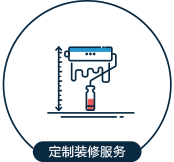
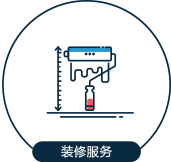
我的认筹详情 我的定制详情

diff --git a/css/about.css b/css/about.css
@@ -1,1 +1,1 @@
-.main-width{width:1200px;min-width:1200px;margin-left:auto;margin-right:auto}.ellipse{overflow:hidden;white-space:nowrap;text-overflow:ellipsis}input,button{font-size:14px}button{cursor:pointer}.select{width:100%;height:45px;position:relative;font-size:14px}.select .form-control{width:100%;height:45px;line-height:45px;border-radius:3px;-webkit-border-radius:3px;-moz-border-radius:3px;color:#7f85a3;padding:0 40px 0 12px;box-shadow:inset 0 1px 3px 0 rgba(127,133,163,0.53);-webkit-box-shadow:inset 0 1px 3px 0 rgba(127,133,163,0.53);-moz-box-shadow:inset 0 1px 3px 0 rgba(127,133,163,0.53);background:#eff2f9;background:url("../images/icon/select_ico.png") right 20px center no-repeat,-webkit-gradient(linear, left top, left bottom, from(#eff2f9), to(#dbe0ed));background:url("../images/icon/select_ico.png") right 20px center no-repeat,linear-gradient(to bottom, #eff2f9, #dbe0ed)}.select .select-box{position:relative;width:100%}.select .select-box ul{background:#fff;display:none;border-bottom:1px solid #c3c9d8}.select .select-box ul li{width:100%;height:auto;line-height:20px;border-top:1px solid #c3c9d8;color:#7f85a3;padding:10px 12px;cursor:pointer}.select .select-box ul li:hover{background:#eff2f9;color:#7f85a3;border-top-color:#c3c9d8}.select .select-box:hover ul{display:block}.about{width:100%;height:auto;min-width:1200px;overflow:hidden;border-top:6px solid #fff}.about .content{width:1200px;min-width:1200px;margin-left:auto;margin-right:auto}.message{color:#fff}.message .title{font-size:40px;margin-top:20px}.message .tit{font-size:15px;letter-spacing:10px;margin-top:20px}.message .con{line-height:24px;margin-top:20px}.message .link{display:block;margin-top:36px}.about-introduce{width:100%;height:896px;background:url("../images/about/bg1.jpg") top center no-repeat;background-size:auto 896px}.about-introduce .logo{margin-top:85px;display:block}.about-introduce .text{margin-top:38px;width:548px;height:auto;color:#565f65}.about-introduce .en{margin-top:30px;color:#95a4ae}.about-introduce .menu{width:1250px;height:208px;margin-top:156px;background:url("../images/about/menu_bgpng.png") left 259px center no-repeat}.about-introduce .menu .item{display:block;border-radius:50%;-webkit-border-radius:50%;-moz-border-radius:50%;width:208px;height:208px;line-height:208px;text-align:center;transition:All .5s ease-in-out;-webkit-transition:All .5s ease-in-out;-moz-transition:All .5s ease-in-out;-o-transition:All .5s ease-in-out;float:left;margin-right:101px}.about-introduce .menu .item:hover{background:#d8e1ef;box-shadow:3px 8px 40px #7f85a3;-moz-box-shadow:3px 8px 40px #7f85a3;-webkit-box-shadow:3px 8px 40px #7f85a3}.about-property{width:100%;height:927px;min-width:1200px;background:url("../images/about/bg3.jpg") top center no-repeat;background-size:auto 927px;overflow:hidden}.about-property .message{width:640px;height:auto}.about-property .message .title{margin-top:418px;padding-left:110px}.about-property .message .tit{padding-left:110px}.about-property .message .en{margin-top:25px}.about-property .message .con{padding-left:110px;margin-top:39px}.about-case{background:#e5e5e5;background-size:auto 900px}.about-case .p1{margin-top:45px}.about-case .case-swiper{position:relative;margin-top:30px;margin-bottom:100px;overflow:hidden}.about-case .case-swiper .swiper-slide{height:540px;margin-bottom:100px}.about-case .case-swiper .con{float:right;width:380px;height:auto}.about-case .case-swiper .con .p1{margin-top:230px;font-size:35px;color:#5e5e5d}.about-case .case-swiper .content-msg{margin-top:30px}.about-case .case-swiper .content-msg .p{font-size:14px;margin-top:15px;color:#5e5e5d}.about-case .case-swiper .content-msg .p span{display:inline-block;width:64px;color:#a4a4a3;margin-right:10px}.about-case .case-swiper .data{position:absolute}.about-case .case-pagination{position:absolute;bottom:0;z-index:10}.about-case .case-pagination .item{width:65px;height:68px;cursor:pointer;text-align:center;float:left;margin-right:163px}.about-case .case-pagination .item:hover .dot,.about-case .case-pagination .item.active .dot{width:34px;height:34px;line-height:22px;border:6px solid #fac3cf;margin-top:0;font-size:12px}.about-case .case-pagination .item:hover .txt,.about-case .case-pagination .item.active .txt{display:block}.about-case .case-pagination .dot{display:inline-block;width:7px;height:7px;border-radius:50%;-webkit-border-radius:50%;-moz-border-radius:50%;background:#fd2e5a;text-align:center;font-size:0;color:#fff;margin-top:14px;overflow:hidden;transition:All .3s ease-in-out;-webkit-transition:All .3s ease-in-out;-moz-transition:All .3s ease-in-out;-o-transition:All .3s ease-in-out}.about-case .case-pagination .txt{margin-top:10px;color:#8c8c8c;display:none}.about-case .case-pagination .item-line{width:688px;height:19px;border-bottom:1px solid #c3c9d8;margin-left:30px}.about-service{width:100%;height:896px;min-width:1200px;position:relative;border-top:0}.about-service .message{border-top:6px solid #fff;width:50%;height:100%;background:#22272a url("../images/about/bg2.jpg") top right no-repeat;background-size:auto 896px}.about-service .en{margin-top:150px;text-align:center}.about-service .en img{max-width:100%}.about-service .title{margin-top:40px}.about-service .box{width:60%;margin:0 auto}.about-service .close{position:absolute;right:50px;top:50px;cursor:pointer;filter:alpha(opacity=0);-ms-filter:"progid:DXImageTransform.Microsoft.Alpha(Opacity=0)";opacity:0;transition:All .4s ease-in-out;-webkit-transition:All .4s ease-in-out;-moz-transition:All .4s ease-in-out;-o-transition:All .4s ease-in-out;z-index:20}.about-service .close:hover{transform:rotate(180deg);-webkit-transform:rotate(180deg);-moz-transform:rotate(180deg);-o-transform:rotate(180deg);filter:progid:DXImageTransform.Microsoft.BasicImage(rotation=3)}.about-service .close.show{filter:alpha(opacity=100);-ms-filter:"progid:DXImageTransform.Microsoft.Alpha(Opacity=100)";opacity:1}.about-service .img-list{width:50%;height:896px;float:right;overflow:hidden;border:6px solid #fff;border-bottom:0;border-right:0;position:relative;background:#22272a}.about-service .img-list ul{transition:All .5s ease-in-out;-webkit-transition:All .5s ease-in-out;-moz-transition:All .5s ease-in-out;-o-transition:All .5s ease-in-out;-webkit-transform-origin:0 0 0;transform-origin:0 0 0;position:relative;z-index:10}.about-service .img-list .item{width:33.33333333%;height:451px;line-height:445px;border-right:6px solid #fff;border-bottom:6px solid #fff;float:left;overflow:hidden;cursor:pointer}.about-service .img-list .item:hover .img-box{-webkit-transform:scale(1.1);transform:scale(1.1)}.about-service .img-list .img-box{filter:alpha(opacity=100);-ms-filter:"progid:DXImageTransform.Microsoft.Alpha(Opacity=100)";opacity:1;width:100%;height:100%;text-align:center;overflow:hidden;transition:All .5s ease-in-out;-webkit-transition:All .5s ease-in-out;-moz-transition:All .5s ease-in-out;-o-transition:All .5s ease-in-out}.about-service .img-list .img-box .img{max-height:100%;max-width:100%;transition:All .2s ease-in-out;-webkit-transition:All .2s ease-in-out;-moz-transition:All .2s ease-in-out;-o-transition:All .2s ease-in-out}.about-service .img-list .img-box .img.opacity{filter:alpha(opacity=0);-ms-filter:"progid:DXImageTransform.Microsoft.Alpha(Opacity=0)";opacity:0}.about-service .img-list .large-img{width:100%;position:relative;z-index:5;height:100%;line-height:896px;filter:alpha(opacity=0);-ms-filter:"progid:DXImageTransform.Microsoft.Alpha(Opacity=0)";opacity:0;transition:All .5s ease-in-out;-webkit-transition:All .5s ease-in-out;-moz-transition:All .5s ease-in-out;-o-transition:All .5s ease-in-out;text-align:center;background:#22272a;cursor:pointer;-webkit-transform:translateY(-896px);transform:translateY(-896px)}.about-service .img-list .large-img img{max-height:100%;max-width:100%}.about-service .img-list .large-img.show{transition-delay:.5s;-webkit-transition-delay:.5s;-moz-transition-delay:.5s;filter:alpha(opacity=100);-ms-filter:"progid:DXImageTransform.Microsoft.Alpha(Opacity=100)";opacity:1;z-index:20}.about-life{width:100%;height:900px;background:#22272a url("../images/about/bg4.jpg") top center no-repeat;background-size:auto 900px}.about-life .message{width:552px;height:auto}.about-life .title{margin-top:390px}.about-life .en{margin-left:102px;margin-top:20px}.about-life .life-swiper{width:437px;height:522px;position:absolute;top:113px;left:251px;overflow:hidden}.about-decoration{width:100%;height:905px;background:#22272a url("../images/about/bg5.jpg") top center no-repeat;background-size:auto 905px;position:relative}.about-decoration .en{margin-top:130px}.about-decoration .title{margin-top:56px}.about-decoration .message{color:#000;margin-left:260px}.about-decoration .con{width:515px}.about-decoration .content{height:100%;position:relative;border:1px solid transparent}.about-decoration .img{position:absolute}.about-decoration .img.img1{top:0;right:170px}.about-decoration .img.img2{bottom:0;left:-128px}.about-decoration .img.img3{bottom:0;left:600px}.about-decoration .img.img4{bottom:0;right:0}
+.main-width{width:1200px;min-width:1200px;margin-left:auto;margin-right:auto}.ellipse{overflow:hidden;white-space:nowrap;text-overflow:ellipsis}input,button{font-size:14px}button{cursor:pointer}.select{width:100%;height:45px;position:relative;font-size:14px}.select .form-control{width:100%;height:45px;line-height:45px;border-radius:3px;-webkit-border-radius:3px;-moz-border-radius:3px;color:#7f85a3;padding:0 40px 0 12px;box-shadow:inset 0 1px 3px 0 rgba(127,133,163,0.53);-webkit-box-shadow:inset 0 1px 3px 0 rgba(127,133,163,0.53);-moz-box-shadow:inset 0 1px 3px 0 rgba(127,133,163,0.53);background:#eff2f9;background:url("../images/icon/select_ico.png") right 20px center no-repeat,-webkit-gradient(linear, left top, left bottom, from(#eff2f9), to(#dbe0ed));background:url("../images/icon/select_ico.png") right 20px center no-repeat,linear-gradient(to bottom, #eff2f9, #dbe0ed)}.select .select-box{position:relative;width:100%}.select .select-box ul{background:#fff;display:none;border-bottom:1px solid #c3c9d8}.select .select-box ul li{width:100%;height:auto;line-height:20px;border-top:1px solid #c3c9d8;color:#7f85a3;padding:10px 12px;cursor:pointer}.select .select-box ul li:hover{background:#eff2f9;color:#7f85a3;border-top-color:#c3c9d8}.select .select-box:hover ul{display:block}.about{width:100%;height:auto;min-width:1200px;overflow:hidden;border-top:6px solid #fff}.about .content{width:1200px;min-width:1200px;margin-left:auto;margin-right:auto}.message{color:#fff}.message .title{font-size:40px;margin-top:20px}.message .tit{font-size:15px;letter-spacing:10px;margin-top:20px}.message .con{line-height:24px;margin-top:20px}.message .link{display:block;margin-top:36px}.about-introduce{width:100%;height:896px;background:url("../images/about/bg1.jpg") top center no-repeat;background-size:auto 896px}.about-introduce .logo{margin-top:85px;display:block}.about-introduce .text{margin-top:38px;width:548px;height:auto;color:#565f65}.about-introduce .en{margin-top:30px;color:#95a4ae}.about-introduce .menu{width:1250px;height:208px;margin-top:156px;background:url("../images/about/menu_bgpng.png") left 259px center no-repeat}.about-introduce .menu .item{display:block;border-radius:50%;-webkit-border-radius:50%;-moz-border-radius:50%;width:208px;height:208px;line-height:208px;text-align:center;transition:All .5s ease-in-out;-webkit-transition:All .5s ease-in-out;-moz-transition:All .5s ease-in-out;-o-transition:All .5s ease-in-out;float:left;margin-right:101px}.about-introduce .menu .item:hover{background:#d8e1ef;box-shadow:3px 8px 40px #7f85a3;-moz-box-shadow:3px 8px 40px #7f85a3;-webkit-box-shadow:3px 8px 40px #7f85a3}.about-property{width:100%;height:927px;min-width:1200px;background:url("../images/about/bg3.jpg") top center no-repeat;background-size:auto 927px;overflow:hidden}.about-property .message{width:640px;height:auto}.about-property .message .title{margin-top:365px;padding-left:110px}.about-property .message .tit{padding-left:110px}.about-property .message .en{margin-top:25px}.about-property .message .con{padding-left:110px;margin-top:39px}.about-case{background:#e5e5e5;background-size:auto 900px}.about-case .p1{margin-top:45px}.about-case .case-swiper{position:relative;margin-top:30px;margin-bottom:100px;overflow:hidden}.about-case .case-swiper .swiper-slide{height:540px;margin-bottom:100px}.about-case .case-swiper .con{float:right;width:380px;height:auto}.about-case .case-swiper .con .p1{font-size:35px;color:#5e5e5d}.about-case .case-swiper .content-msg{margin-top:30px}.about-case .case-swiper .content-msg .p{font-size:14px;margin-top:15px;color:#5e5e5d}.about-case .case-swiper .content-msg .p span{display:inline-block;width:64px;color:#a4a4a3;margin-right:10px}.about-case .case-swiper .data{position:absolute}.about-case .case-pagination{position:absolute;bottom:0;z-index:10}.about-case .case-pagination .item{width:65px;height:68px;cursor:pointer;text-align:center;float:left;margin-right:163px}.about-case .case-pagination .item:hover .dot,.about-case .case-pagination .item.active .dot{width:34px;height:34px;line-height:22px;border:6px solid #fac3cf;margin-top:0;font-size:12px}.about-case .case-pagination .item:hover .txt,.about-case .case-pagination .item.active .txt{display:block}.about-case .case-pagination .dot{display:inline-block;width:7px;height:7px;border-radius:50%;-webkit-border-radius:50%;-moz-border-radius:50%;background:#fd2e5a;text-align:center;font-size:0;color:#fff;margin-top:14px;overflow:hidden;transition:All .3s ease-in-out;-webkit-transition:All .3s ease-in-out;-moz-transition:All .3s ease-in-out;-o-transition:All .3s ease-in-out}.about-case .case-pagination .txt{margin-top:10px;color:#8c8c8c;display:none}.about-case .case-pagination .item-line{width:688px;height:19px;border-bottom:1px solid #c3c9d8;margin-left:30px}.about-service{width:100%;height:896px;min-width:1200px;position:relative;border-top:0}.about-service .message{border-top:6px solid #fff;width:50%;height:100%;background:#22272a url("../images/about/bg2.jpg") top right no-repeat;background-size:auto 896px}.about-service .en{margin-top:150px;text-align:center}.about-service .en img{max-width:100%}.about-service .title{margin-top:40px}.about-service .box{width:60%;margin:0 auto}.about-service .close{position:absolute;right:50px;top:50px;cursor:pointer;filter:alpha(opacity=0);-ms-filter:"progid:DXImageTransform.Microsoft.Alpha(Opacity=0)";opacity:0;transition:All .4s ease-in-out;-webkit-transition:All .4s ease-in-out;-moz-transition:All .4s ease-in-out;-o-transition:All .4s ease-in-out;z-index:20}.about-service .close:hover{transform:rotate(180deg);-webkit-transform:rotate(180deg);-moz-transform:rotate(180deg);-o-transform:rotate(180deg);filter:progid:DXImageTransform.Microsoft.BasicImage(rotation=3)}.about-service .close.show{filter:alpha(opacity=100);-ms-filter:"progid:DXImageTransform.Microsoft.Alpha(Opacity=100)";opacity:1}.about-service .img-list{width:50%;height:896px;float:right;overflow:hidden;border:6px solid #fff;border-bottom:0;border-right:0;position:relative;background:#22272a}.about-service .img-list ul{transition:All .5s ease-in-out;-webkit-transition:All .5s ease-in-out;-moz-transition:All .5s ease-in-out;-o-transition:All .5s ease-in-out;-webkit-transform-origin:0 0 0;transform-origin:0 0 0;position:relative;z-index:10}.about-service .img-list .item{width:33.33333333%;height:451px;line-height:445px;border-right:6px solid #fff;border-bottom:6px solid #fff;float:left;overflow:hidden;cursor:pointer}.about-service .img-list .item:hover .img-box{-webkit-transform:scale(1.1);transform:scale(1.1)}.about-service .img-list .img-box{filter:alpha(opacity=100);-ms-filter:"progid:DXImageTransform.Microsoft.Alpha(Opacity=100)";opacity:1;width:100%;height:100%;text-align:center;overflow:hidden;transition:All .5s ease-in-out;-webkit-transition:All .5s ease-in-out;-moz-transition:All .5s ease-in-out;-o-transition:All .5s ease-in-out}.about-service .img-list .img-box .img{max-height:100%;max-width:100%;transition:All .2s ease-in-out;-webkit-transition:All .2s ease-in-out;-moz-transition:All .2s ease-in-out;-o-transition:All .2s ease-in-out}.about-service .img-list .img-box .img.opacity{filter:alpha(opacity=0);-ms-filter:"progid:DXImageTransform.Microsoft.Alpha(Opacity=0)";opacity:0}.about-service .img-list .large-img{width:100%;position:relative;z-index:5;height:100%;line-height:896px;filter:alpha(opacity=0);-ms-filter:"progid:DXImageTransform.Microsoft.Alpha(Opacity=0)";opacity:0;transition:All .5s ease-in-out;-webkit-transition:All .5s ease-in-out;-moz-transition:All .5s ease-in-out;-o-transition:All .5s ease-in-out;text-align:center;background:#22272a;cursor:pointer;-webkit-transform:translateY(-896px);transform:translateY(-896px)}.about-service .img-list .large-img img{max-height:100%;max-width:100%}.about-service .img-list .large-img.show{transition-delay:.5s;-webkit-transition-delay:.5s;-moz-transition-delay:.5s;filter:alpha(opacity=100);-ms-filter:"progid:DXImageTransform.Microsoft.Alpha(Opacity=100)";opacity:1;z-index:20}.about-life{width:100%;height:900px;background:#22272a url("../images/about/bg4.jpg") top center no-repeat;background-size:auto 900px}.about-life .message{width:552px;height:auto}.about-life .title{margin-top:390px}.about-life .en{margin-left:102px;margin-top:20px}.about-life .life-swiper{width:437px;height:522px;position:absolute;top:113px;left:251px;overflow:hidden}.about-decoration{width:100%;height:905px;background:#22272a url("../images/about/bg5.jpg") top center no-repeat;background-size:auto 905px;position:relative}.about-decoration .en{margin-top:130px}.about-decoration .title{margin-top:56px}.about-decoration .message{color:#000;margin-left:260px}.about-decoration .con{width:515px}.about-decoration .content{height:100%;position:relative;border:1px solid transparent}.about-decoration .img{position:absolute}.about-decoration .img.img1{top:0;right:170px}.about-decoration .img.img2{bottom:0;left:-128px}.about-decoration .img.img3{bottom:0;left:600px}.about-decoration .img.img4{bottom:0;right:0}

diff --git a/theme/J 关于我们/about.html b/theme/J 关于我们/about.html
@@ -15,14 +15,19 @@
     <script src="../../js/jQuery1.12.3-min.js" type="text/javascript"></script>
 </head>
 <body>
-<div class="about about-introduce">
+<div class="about about-introduce" style="border-top:0;">
     <div class="content">
         <a href="#" class="logo">
             <img src="../../images/about/logo.png" alt="">
         </a>
-        <p class="text">
-            房计划（FJHOK.COM）隶属于重庆市信利达科技集团，是国内首家房地产运营服务平台，专注房地产开发管理、营销策划、物业管理、社区生活服务。信利达集团通过旗下的定制购房平台，物业管理平台，定制装修平台，生活服务平台为开发企业提供更精细化管理，更精准化营销，提升产品市场竞争力，降低产品设计的滞销风险，缩短开发周期。为购房人提供个性化定制服务，酒店式管家服务，智慧生活服务，降低购房人的购房成本，提升生活品质。房计划秉承“用心构筑美好生活”的服务理念，让更多用户体验到房计划服务之美好，肩负起更多人群对品质生活的理想。
-        </p>
+        <div class="text">
+            <p>
+                房计划（FJHOK.COM）隶属于重庆市信利达科技集团，信力达科技集团是一家房地产转型升级的多元化发展的集团公司，从事房地产开发10年有余,公司主要从事房地产投资管理、销售服务、物业服务、装修服务、技术研发等。集团公司旗下目前拥有房地产管理平台、房计划定制销售平台、房计划物业服务平台，房计划定制装修平台，为房地产开发企业提供更精细化管理、精准化营销，提升产品竞争力，缩短开发周期，降低企业风险。
+            </p>
+            <p class="mt10">
+                公司秉持“以客户需求为导向”的经营理念和“用心构筑美好生活”的服务理念，通过技术研发为客户打造一个定制家、智能家、智慧家，为客户提供更优质的服务，让客户买的不止不是房子，还有服务和生活。
+            </p>
+        </div>
         <p class="en">REDEFINE YOUR HOME</p>
 
         <div class="menu">
@@ -41,6 +46,7 @@
         </div>
     </div>
 </div>
+
 <div class="about about-service" id="service">
     <div class="message pull-left">
         <p class="en" data-kui-anim="fadeInUp">
@@ -52,11 +58,11 @@
                 <img src="../../images/about/subtit1.png" alt="">
             </p>
             <p class="con delay60" data-kui-anim="fadeInUp">
-                房计划定制购房服务以客户需求为导向，借鉴工业4.0模式为业主提供可定制化的购房平台,让用户充分参与定制自己的家，真正实现我的空间我做主；同时通过定制购房还可以享受定制优惠，减少购房成本。  
+                定制销售服务是指信力达科技集团通过自主研发的“房计划”销售平台对潜在客户的需求进行大数据分析，帮助开发企业进行产品的市场定位及定价，提升产品竞争力，降低开发企业产品设计的滞销风险，缩短销售周期，降低时间成本和财务成本。房计划定制销售平台以客户需求为导向，借鉴工业4.0 模式为业主提供可定制化的购房平台, 让用户充分参与定制自己的家，真正实现我的空间我做主，实现个性化定制。
             </p>
-            <p class="con delay80" data-kui-anim="fadeInUp">
+            <!--<p class="con delay80" data-kui-anim="fadeInUp">
                 房计划定制购房平台对潜在客户的需求进行大数据分析，帮助开发企业进行产品的市场定位及定价，提升产品竞争力，降低开发企业产品设计的滞销风险，缩短销售周期，降低时间成本和财务成本。
-            </p>
+            </p>-->
             <a href="#" class="link delay100" data-kui-anim="fadeInUp">
                 <img src="../../images/about/btn.png" alt="">
             </a>
@@ -106,6 +112,7 @@
         <img src="../../images/icon/layer_close.png" alt="">
     </div>
 </div>
+
 <div class="about about-property" id="property">
     <div class="content">
         <div class="message pull-right">
@@ -115,7 +122,7 @@
                 <img src="../../images/about/en3.png" alt="">
             </p>
             <p class="con delay60"  data-kui-anim="fadeInUp">
-                房计划物业涵盖住宅物业服务、商用物业服务、综合体物业服务等，以酒店式管家服务为标准，秉承“用心构筑美好生活”的服务理念，坚持在物业管理的标准化、专业化、精细化道路上砥砺前行。让更多用户体验到房计划服务之美好，肩负起更多人群对品质生活的理想。
+                定制物业服务是指信力达科技集团旗下的房计划物业推出的“金牌管家”定制服务，参照英国标准协会（BSI）服务标准，为业主定制客户服务、家政服务、生活服务中心、案场服务、特约维修服务等酒店式管家服务。无论是小到更换灯泡，大到房屋装修的问题，业主只要一通电话，专属“管家”都会及时地为业主提供便捷的服务。房计划物业坚持在物业管理的标准化、专业化、精细化道路上砥砺前行。颠覆传统的精细化服务，40 项服务流程，200 条精细化服务标准，4 重检查机制，为业主打造环境优美、秩序井然、安全无忧、邻里和睦的幸福生活社区。
                 <a href="#" class="link">
                     <img src="../../images/about/btn.png" alt="">
                 </a>
@@ -123,6 +130,7 @@
         </div>
     </div>
 </div>
+
 <div class="about about-life" id="life">
     <div class="content clear" style="position: relative;">
 
@@ -147,7 +155,7 @@
                 <img src="../../images/about/en6.png" alt="">
             </p>
             <p class="con delay60" data-kui-anim="fadeInUp">
-                房计划科技团队倾心打造”团转到家”智慧生活平台，以智能化社区服务为开发方向，与物业硬件相结合，打造智能化社区APP。房计划业主可以在团转到家平台上缴纳物业费、水电气费、停车费，享受一键开门、一键洗车等便捷智能化生活服务。团转商城甄选水果、生鲜、家用百货，低价高质，实时配送到家。
+                定制生活服务是指信力达科技集团自主研发的”团转到家”智慧生活服务平台，以智能化社区服务为开发方向，与物业硬件相结合，打造智能化社区APP。房计划业主可以在“团转到家”平台上缴纳物业费、水电气费、停车费，享受一键开门、一键洗车、一键锁车等便捷智能化生活服务。团转商城甄选优质水果、生鲜、家用百货，实时配送到家，让业主享受高品质智慧生活服务。
             </p>
             <a href="#" class="link delay80" data-kui-anim="fadeInUp">
                 <img src="../../images/about/btn.png" alt="">
@@ -155,6 +163,7 @@
         </div>
     </div>
 </div>
+
 <div class="about about-decoration" id="decoration">
     <div class="content">
         <p class="en">
@@ -164,7 +173,7 @@
             <p class="title">定制装修服务</p>
             <p class="tit"><img src="../../images/about/subtit3.png" alt=""></p>
             <p class="con">
-                房计划定制装修隶属于房计划物业，基于互联网装修O2O模式，线上为业主提供不同风格装修设计方案，线下资深设计团队全程参与设计服务，以业主的视角提供一站式全屋装修定制，三年保修，终身维保，省钱、省时、更省心。
+                定制装修服务是指信力达科技集团旗下的房计划物业推出的房屋定制装修服务，基于互联网装修O2O 模式，线上为业主提供不同风格装修设计方案，线下资深设计团队全程参与设计服务，以业主的视角提供一站式全屋装修定制，实现个性化定制。房计划物业郑重承诺：“承诺三年保修，终身维保”，让业主省钱、省时、省心。
             </p>
             <a href="#" class="link">
                 <img src="../../images/about/btn.png" alt="">
@@ -177,6 +186,7 @@
     </div>
     <img data-kui-anim="fadeInLeft" class="img img4 delay40" src="../../images/about/img5_4.png" alt="">
 </div>
+
 <div class="about about-case" id="case">
     <div class="content">
         <p class="p1">
@@ -185,8 +195,8 @@
 
         <div class="case-swiper">
             <div class="swiper-slide" style="background: url('../../images/about/flash1.png') left 58px bottom no-repeat;">
-                <img class="data delay30" src="../../images/about/data1_1.png" alt="" style="top:85px;left:0px;">
-                <img class="data delay60" src="../../images/about/data1_2.png" alt="" style="top:0px;left:603px;">
+                <!--<img class="data delay30" src="../../images/about/data1_1.png" alt="" style="top:85px;left:0px;">
+                <img class="data delay60" src="../../images/about/data1_2.png" alt="" style="top:0px;left:603px;">-->
                 <div class="con">
                     <p class="p1">云鼎府邸</p>
                     <div class="content-msg">
@@ -211,11 +221,12 @@
                             邻水县方居房地产开发有限公司
                         </p>
                     </div>
+                    <img class="mt30" src="../../images/about/data1.png" alt="">
                 </div>
             </div>
             <div class="swiper-slide" style="background: url('../../images/about/flash2.png') left 58px bottom no-repeat;">
-                <img class="data delay30" src="../../images/about/data2_1.png" alt="" style="top:15px;left:-13px;">
-                <img class="data delay60" src="../../images/about/data2_2.png" alt="" style="top:4px;left:597px;">
+                <!--<img class="data delay30" src="../../images/about/data2_1.png" alt="" style="top:15px;left:-13px;">
+                <img class="data delay60" src="../../images/about/data2_2.png" alt="" style="top:4px;left:597px;">-->
                 <div class="con">
                     <p class="p1">御临天下</p>
                     <div class="content-msg">
@@ -240,11 +251,12 @@
                             邻水县荣恒房地产开发有限公司
                         </p>
                     </div>
+                    <img class="mt30" src="../../images/about/data2.png" alt="">
                 </div>
             </div>
             <div class="swiper-slide" style="background: url('../../images/about/flash3.png') left 58px bottom no-repeat;">
-                <img class="data delay30" src="../../images/about/data3_1.png" alt="" style="top:88px;left:32px;">
-                <img class="data delay60" src="../../images/about/data3_2.png" alt="" style="top:116px;left:416px;">
+                <!--<img class="data delay30" src="../../images/about/data3_1.png" alt="" style="top:88px;left:32px;">
+                <img class="data delay60" src="../../images/about/data3_2.png" alt="" style="top:116px;left:416px;">-->
                 <div class="con">
                     <p class="p1">西城御府</p>
                     <div class="content-msg">
@@ -269,11 +281,12 @@
                             邻水县亿德顺置业有限公司
                         </p>
                     </div>
+                    <img class="mt30" src="../../images/about/data3.png" alt="">
                 </div>
             </div>
             <div class="swiper-slide" style="background: url('../../images/about/flash4.png') left 58px bottom no-repeat;">
-                <img class="data delay30" src="../../images/about/data4_1.png" alt="" style="top:162px;left:48px;">
-                <img class="data delay60" src="../../images/about/data4_2.png" alt="" style="top:68px;left:394px;">
+                <!--<img class="data delay30" src="../../images/about/data4_1.png" alt="" style="top:162px;left:48px;">
+                <img class="data delay60" src="../../images/about/data4_2.png" alt="" style="top:68px;left:394px;">-->
                 <div class="con">
                     <p class="p1">东樾府</p>
                     <div class="content-msg">
@@ -298,6 +311,7 @@
                             武胜恒阳房地产开发有限公司
                         </p>
                     </div>
+                    <img class="mt30" src="../../images/about/data4.png" alt="">
                 </div>
             </div>
         </div>

diff --git a/css/about.less b/css/about.less
@@ -88,7 +88,7 @@
     .wh(640px,auto);
 
     .title{
-      margin-top:418px;
+      margin-top:365px;
       padding-left:110px;
     }
 
@@ -130,7 +130,7 @@
       float:right;
       .wh(380px,auto);
       .p1{
-        margin-top:230px;
+        //margin-top:230px;
         font-size:35px;
         color:#5e5e5d;
       }
